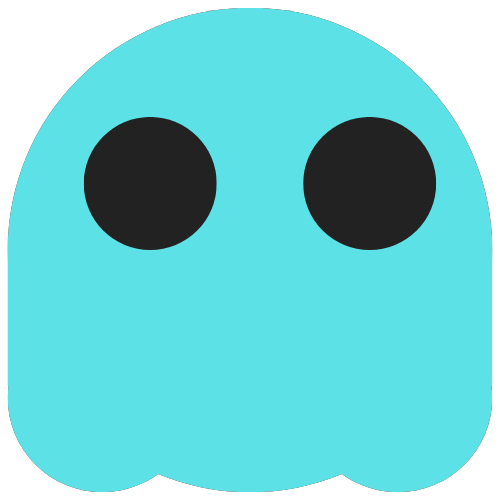
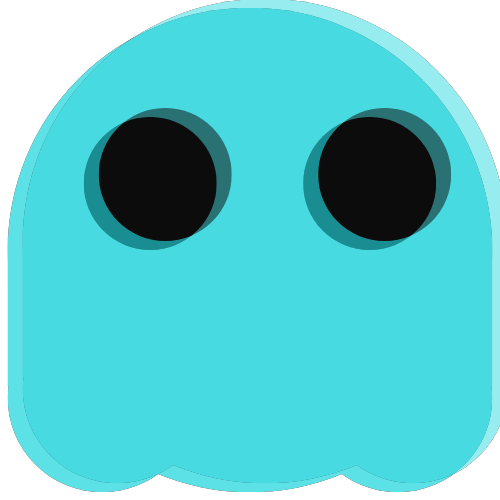
UX tests using different sizes, colors and modified images

diff --git a/src/PacMan/renderer/asset_factories/imgs_loading_factory.py b/src/PacMan/renderer/asset_factories/imgs_loading_factory.py
@@ -232,6 +232,8 @@ class MenuLoader(ImageLoader):
                              f" : {err}")
             raise SystemExit(1)
         imgassets: ImgsAsset = ImgsAsset(asset_name=folder.split('/')[-1])
+        max_w: float = assembler._config.size * .7
+        max_wpb: int = int(max_w / len(_names))
         try:
             for i, stem in enumerate(_names):
                 path = _assets / Path(stem + '.png')
@@ -241,6 +243,8 @@ class MenuLoader(ImageLoader):
                     raise SystemExit(1)
                 with Image.open(path) as imgf:
                     org_w, org_h = imgf.size
+                    max_wpb = max(min(org_w, max_wpb), int(assembler._config.size * .3))
+                    max_hpb: int = int(max_wpb / max_w * org_h)
                 metadata: ImgMetadata = ImgMetadata()
                 img = PyMLXPNGEmulator(
                             org_w,
@@ -249,10 +253,12 @@ class MenuLoader(ImageLoader):
                 img.pygput_from_png(
                             str(path)
                         )
-                metadata.resize_w_prop = 1/3
-                metadata.resize_h_prop = 1/4
-                rsize_w = int(org_w * metadata.resize_w_prop)
-                rsize_h = int(org_h * metadata.resize_h_prop)
+                # metadata.resize_w_prop = 1/3
+                # metadata.resize_h_prop = 1/4
+                # rsize_w = int(org_w * metadata.resize_w_prop)
+                # rsize_h = int(org_h * metadata.resize_h_prop)
+                rsize_w = max_wpb
+                rsize_h = max_hpb
                 if assembler._config.size is not None:
                     metadata.x_pos_prop = (
                         int(assembler._config.size / 2) - int(rsize_w / 2))

diff --git a/src/PacMan/app_config/config.py b/src/PacMan/app_config/config.py
@@ -28,7 +28,7 @@ SCATTER_GHOST_TIME = 5
 ########
 MAZE_SEED = {1: 30, 2: 28, 3: 26, 4: 24, 5: 22,
              6: 20, 7: 18, 8: 16, 9: 14, 10: 12}
-MAZE_NR_CELLS = 5
+MAZE_NR_CELLS = 8
 
 ########
 # Time #
